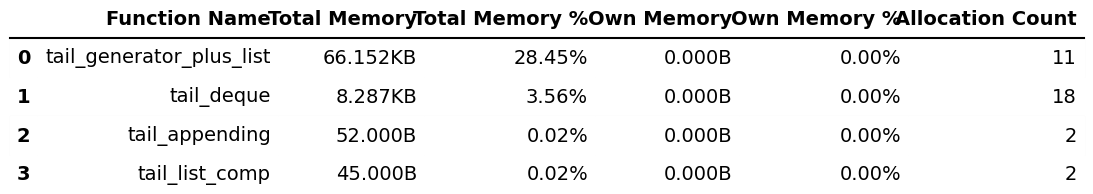
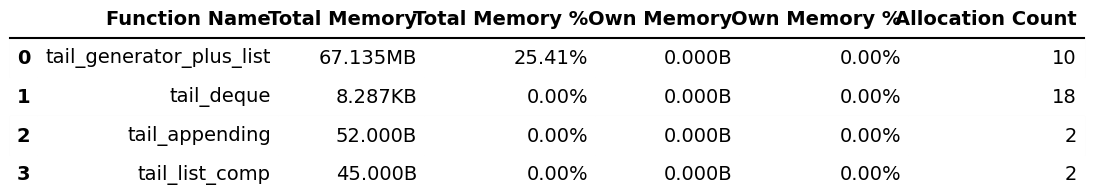
Profiling done

diff --git a/globals.py b/globals.py
@@ -1,5 +1,4 @@
 # GLOBALS
 NUM_TRIALS = 100  # number of trials
 NUM_ROUNDS = 10  # number of rounds with randomized n in each trial
-MAX_SEQ_SIZE = 10 ** 4
-
+MAX_SEQ_SIZE = 10 ** 8

diff --git a/main.py b/main.py
@@ -24,6 +24,7 @@ if __name__ == "__main__":
 		plot_prof_data(prof_data)
 	
 	if "memory" in args:
+		
 		# remove old data file
 		try:
 			os.remove("mem_data.bin")

diff --git a/README.md b/README.md
@@ -1,1 +1,29 @@
-Profiling a tail function.
+# tail
+
+## Description
+
+This is a repo of my testing and profiling of various implementations of the classic "[tail](https://en.wikipedia.org/wiki/Tail_(Unix))" function, which returns the last `n` elements of a `sequence`. For time profiling, [cProfile](https://docs.python.org/3/library/profile.html) was used. For memory profiling, [memray](https://bloomberg.github.io/memray/index.html) was used. Graphics were genereated with [seaborn](https://seaborn.pydata.org/) and [matplotlib](https://matplotlib.org/) for time and memory profile visualizations, respectively.
+
+Profiling experiment was done as follows for both time and memory usage. We generate a list of `NUM_TRIALS`-many sequence sizes, which grow geometrically up to and including the `MAX_SEQ_SIZE` global parameter. For each sequnce size, the tail implementations are tested on a sequence of 1's of length sequence size on a randomly generated requested index `n`. This trial is done `NUM_ROUNDS` times to get a good distribution on the index. 
+
+## Contents
+
+- `global.py`: Global data for changing the experiment size.
+- `main.py`: The entry point of this tail profiling program.
+- `tail.py`: Contains the implementations of the various functions to be tested.
+- `time_prof.py`: Manages the time profiling and the charting of running time data.
+- `mem_prof.py`: Manages the memory profiling.
+- `time-profile-plot.png`: Plot of the running time data for the various tail implementations.
+- `mem-profile-table.png`: Table of the allocation size and quantity of the tail implementations. 
+
+## Results
+
+![Time Profile Chart](time-profile-plot.png)
+
+![Memory Profile Table](mem-profile-table.png)
+
+## Observations
+
+There are a few interesting things to note. First, let's look at the time profile. If a numpy is available to use, it should be the number one priority data structure to use. Second, a generator *might* be the second best option *if* there are few elements you need from it, and they are at the front. This caveat can be seen in that if the generator eventually needs to generate the whole subsequence, it is almost exactly similar to the least efficient method of appending each element needed to a new list. Additionally, the sequence passed into the `tail_return_generator` function should not be changed, since it will corrupt what the generator is returning. Third, if numpy is not a possible option, then returning a slice is your best bet. Another interesting and unexpected alternative was returning a `collections.deque` object. The most interesting feature of this implementation is that the running time is nearly independent of the requested index `n`. This is not a feature of the other implementations.
+
+On the memory data, the generator wrapped around a list was by far the least efficient as it will reallocate the whole list. The deque implementation was the next heaviest in memory, but it was little compared to the generator. Then the list comprehension and appending implementations were negligible. The slicing, both normal and numpy, had allocations too small to be noticed in the data. 
